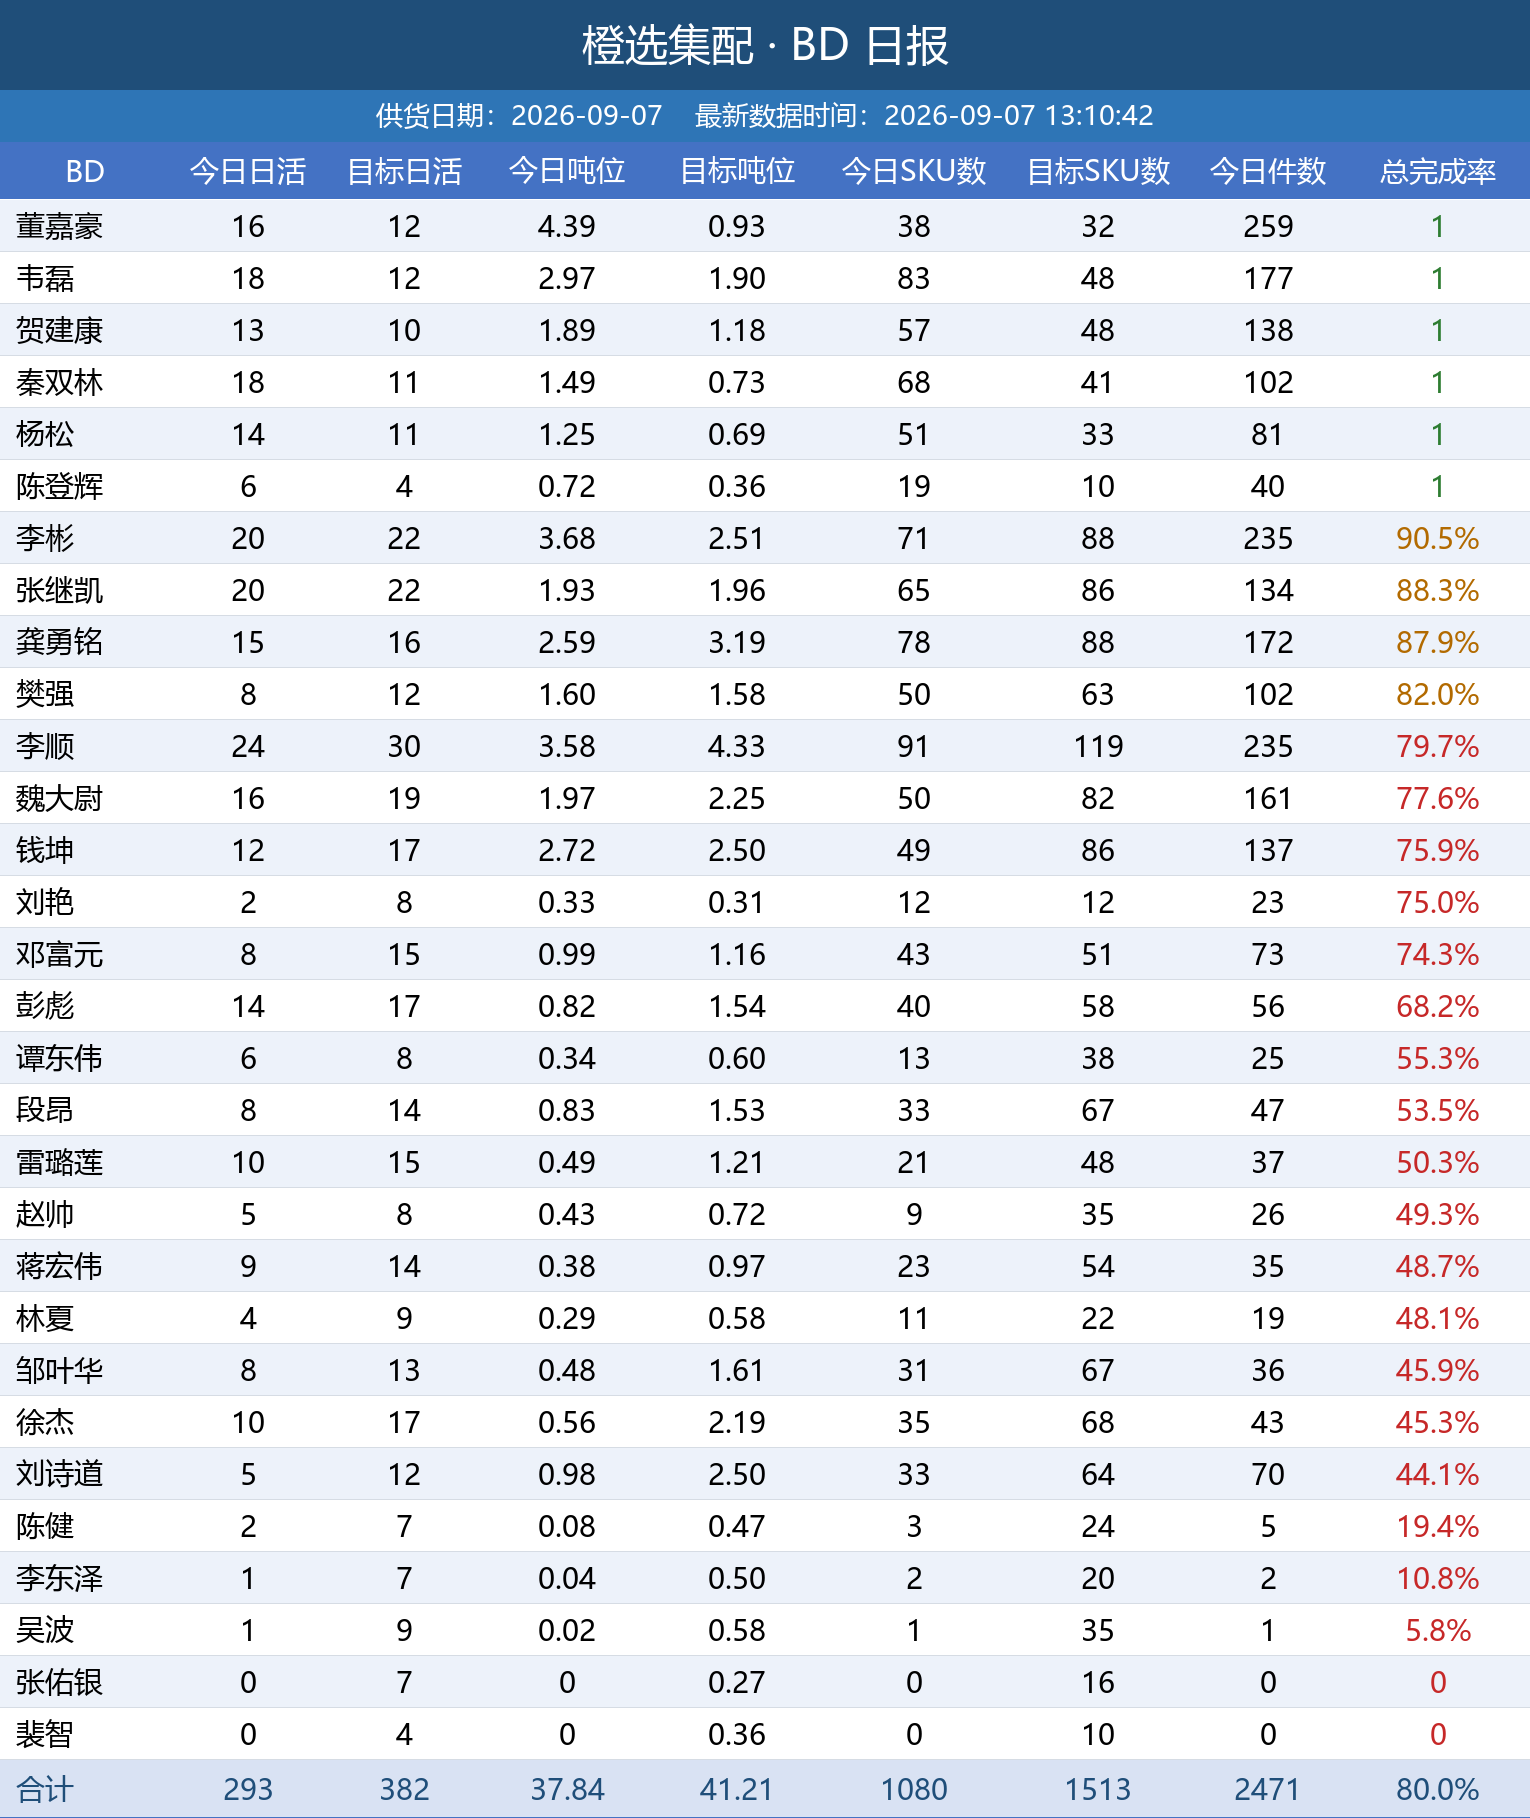
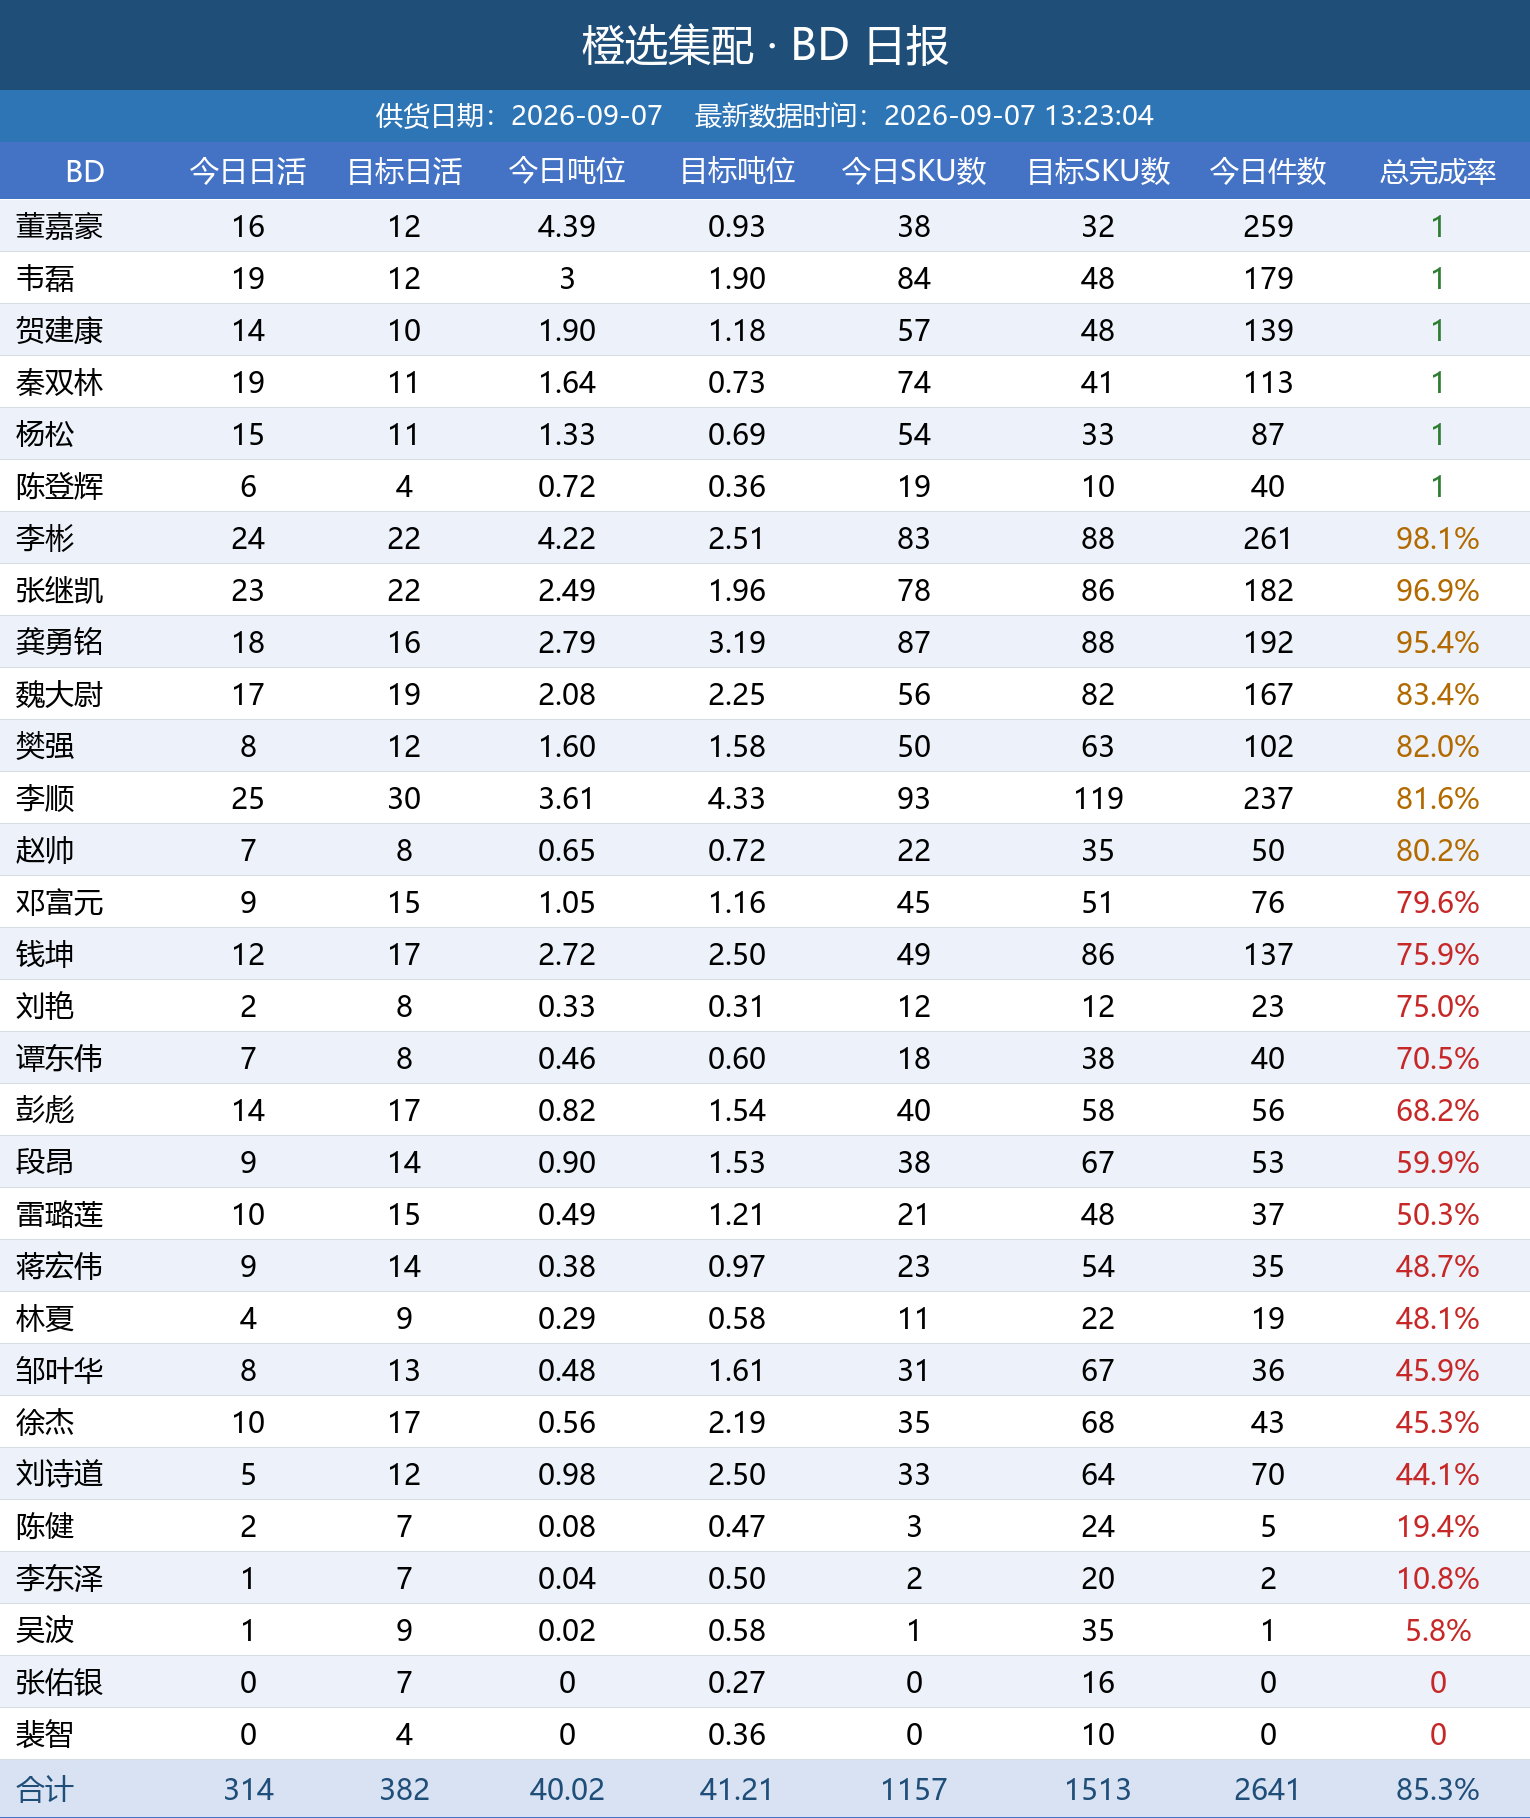
自动更新日报图片

diff --git a/index.html b/index.html
@@ -11,7 +11,7 @@ img { max-width: 100%; border: 1px solid #e5e5e5; margin-bottom: 24px; display: 
 </style>
 </head>
 <body>
-<h1>橙选集配日报图片（20260907_131051）</h1>
+<h1>橙选集配日报图片（20260907_132315）</h1>
 <img src="bd_latest.png" alt="BD 日报">
 <img src="wh_latest.png" alt="城市仓日报">
 <img src="zs_latest.png" alt="招商日报">
